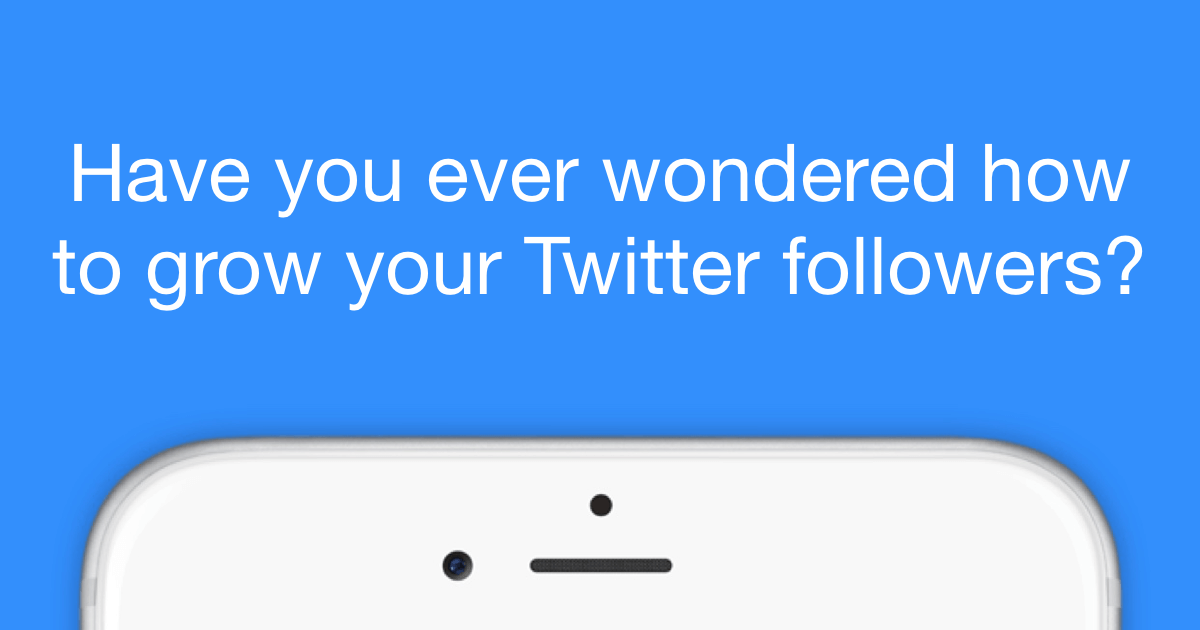
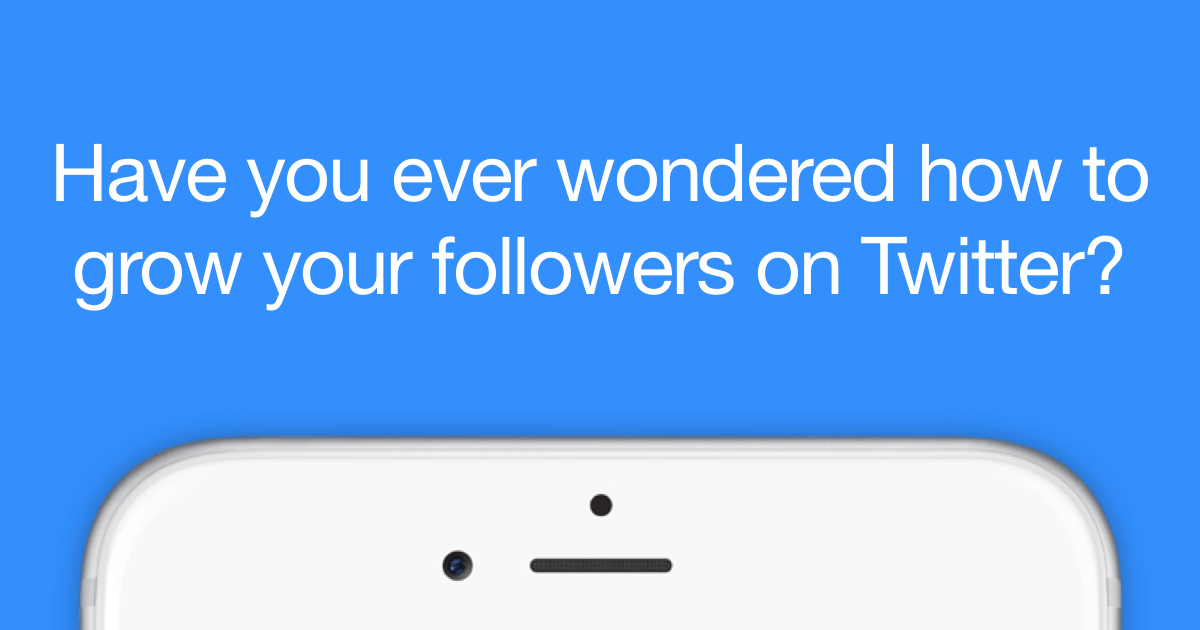
no message

Changed region(s): [[0.0308, 0.3619, 0.9558, 0.5127], [0.0308, 0.2111, 0.9558, 0.3619]]

diff --git a/_site/index.html b/_site/index.html
@@ -79,11 +79,11 @@
 			</div>
 			
 			<div class="container ">
-			  <h2>Have you ever wondered how to grow your Twitter followers?</h2>
+			  <h2>Have you ever wondered how to grow your followers on Twitter?</h2>
 
 <h4>Follow your fans and Unfollow who is not following back and your account will grow at fast pace!</h4>
 
-<h4>Use Still Follows to manage your account and get success in no time!</h4>
+<h4>Use Still Follows to manage your account and achieve success in no time!</h4>
 
 <h3>Get it <strong>FREE</strong> on the App Store</h3>
 

diff --git a/_site/why.html b/_site/why.html
@@ -1,8 +1,8 @@
-<h2>Have you ever wondered how to grow your Twitter followers?</h2>
+<h2>Have you ever wondered how to grow your followers on Twitter?</h2>
 
 <h4>Follow your fans and Unfollow who is not following back and your account will grow at fast pace!</h4>
 
-<h4>Use Still Follows to manage your account and get success in no time!</h4>
+<h4>Use Still Follows to manage your account and achieve success in no time!</h4>
 
 <h3>Get it <strong>FREE</strong> on the App Store</h3>
 

diff --git a/_posts/2000-01-02-why.md b/_posts/2000-01-02-why.md
@@ -5,11 +5,11 @@ color: white
 fa-icon: check-square-o
 ---
 
-## Have you ever wondered how to grow your Twitter followers?
+## Have you ever wondered how to grow your followers on Twitter?
 
-#### Follow your fans and Unfollow who is not following back and your account will grow at fast pace!
+#### Follow your fans and Unfollow who is not following back and your account will grow at a fast pace!
 
-#### Use Still Follows to manage your account and get success in no time!
+#### Use Still Follows to manage your account and achieve success in no time!
 
 ### Get it **FREE** on the App Store
 
